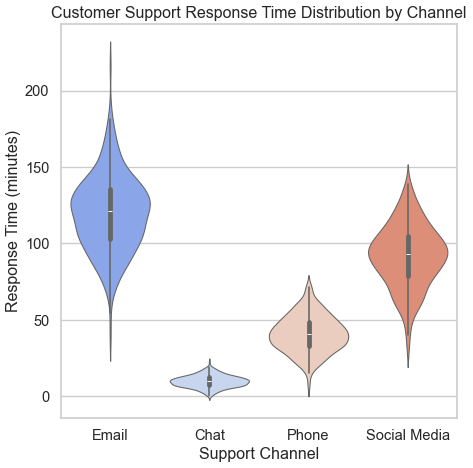
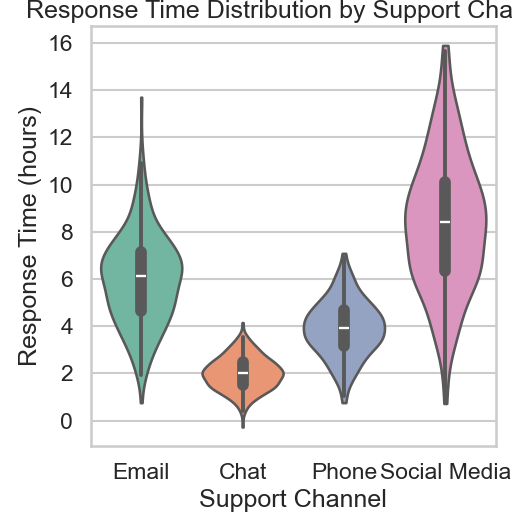
ads

Changed region(s): [[0.0, 0.0, 1.0, 1.0]]

diff --git a/readme/chart.py b/readme/chart.py
@@ -3,55 +3,44 @@ import matplotlib.pyplot as plt
 import pandas as pd
 import numpy as np
 
-# ------------------------------
-# Data Generation
-# ------------------------------
-
+# --- Synthetic business data generation ---
 np.random.seed(42)
 
 channels = ["Email", "Chat", "Phone", "Social Media"]
-
-# Generate realistic response times (in minutes)
 data = {
-    "Channel": np.repeat(channels, 300),
-    "ResponseTime": np.concatenate([
-        np.random.normal(loc=120, scale=25, size=300),   # Email
-        np.random.normal(loc=10, scale=4, size=300),     # Chat
-        np.random.normal(loc=40, scale=12, size=300),    # Phone
-        np.random.normal(loc=90, scale=20, size=300),    # Social Media
+    "channel": np.repeat(channels, 250),
+    "response_time": np.concatenate([
+        np.random.normal(6, 2, 250),   # Email (slow)
+        np.random.normal(2, 0.7, 250), # Chat (fast)
+        np.random.normal(4, 1.2, 250), # Phone
+        np.random.normal(8, 3, 250),   # Social Media (slowest)
     ])
 }
 
 df = pd.DataFrame(data)
 
-# ------------------------------
-# Styling
-# ------------------------------
-
+# --- Professional Seaborn styling ---
 sns.set_style("whitegrid")
 sns.set_context("talk")
 
-plt.figure(figsize=(8, 8))  # 512x512 output at dpi=64
-
-# ------------------------------
-# Violinplot
-# ------------------------------
+# --- Create EXACT 512x512 PNG ---
+fig = plt.figure(figsize=(512/100, 512/100), dpi=100)
 
 sns.violinplot(
     data=df,
-    x="Channel",
-    y="ResponseTime",
-    palette="coolwarm",
-    linewidth=1.2
+    x="channel",
+    y="response_time",
+    palette="Set2",
+    cut=0
 )
 
-plt.title("Customer Support Response Time Distribution by Channel", fontsize=18)
+plt.title("Response Time Distribution by Support Channel")
 plt.xlabel("Support Channel")
-plt.ylabel("Response Time (minutes)")
+plt.ylabel("Response Time (hours)")
 
-# ------------------------------
-# Export
-# ------------------------------
+# Remove extra padding to preserve exact size
+plt.tight_layout(pad=0)
 
-plt.savefig("chart.png", dpi=64, bbox_inches="tight")
+# Save EXACT 512x512
+plt.savefig("chart.png", dpi=100)
 plt.close()
